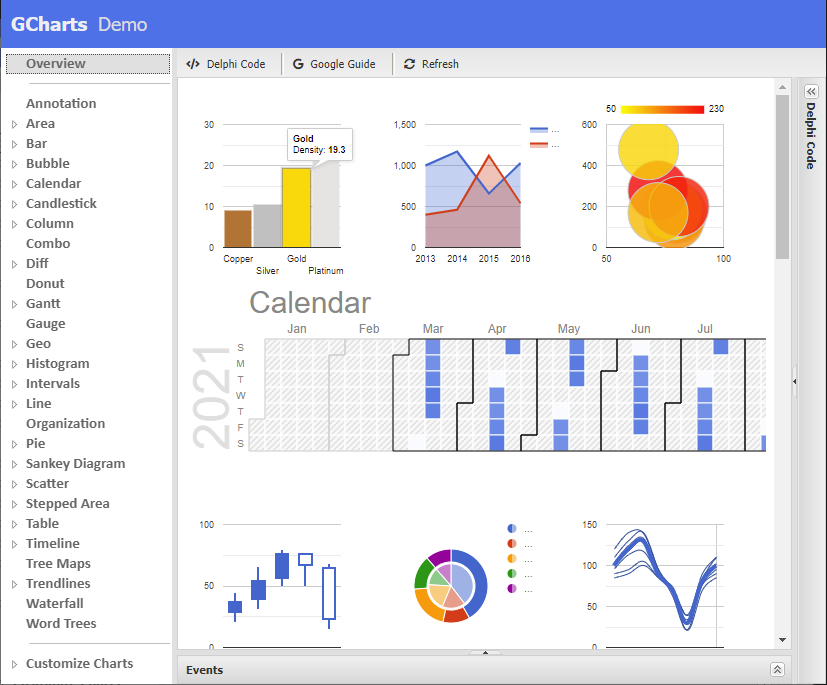
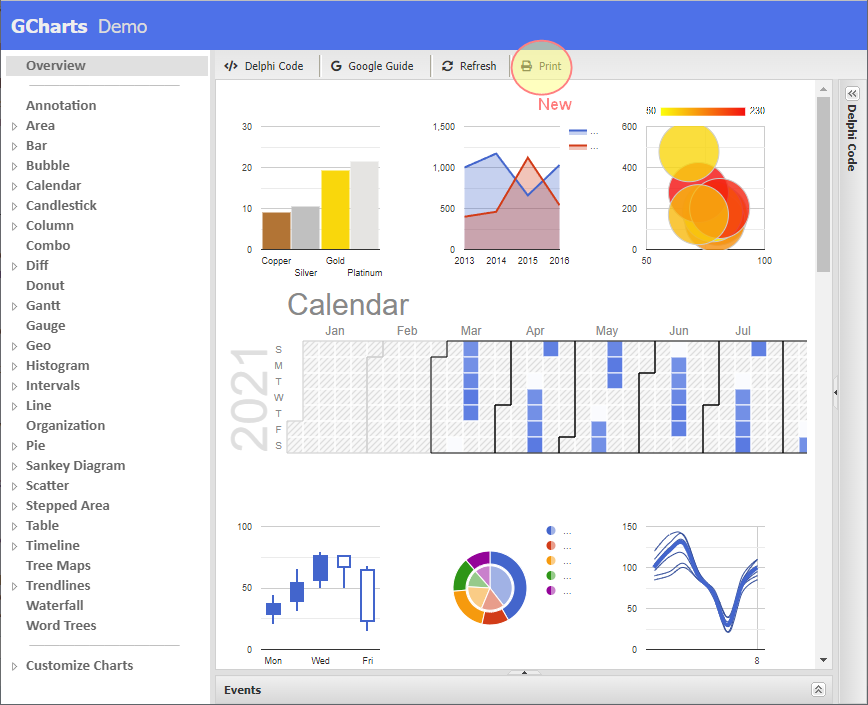
TuniGChartsFrame: New method to print chart/charts. See demos

diff --git a/README.md b/README.md
@@ -48,10 +48,9 @@ The library has two main components:
 - **TuniGChartsFrame**: this component is used to view and interact with the Chart produced by **TcfsGChartProducer**.
 
 
-
 ## Install
 
-Delphi-GCharts has been coded and tested in Delphi `10.4 Sydney` with uniGUI Version: `1.90.0 build 1549`, but surely can be compiled into earlier or newer versions.
+Delphi-GCharts has been coded and tested in Delphi `10.4 Sydney` with uniGUI Version: `1.90.0 build 1557`, but surely can be compiled into earlier or newer versions.
 
 Install the visual component **cfs.Charts.uniGUI.xxx.dpk** that is in the **package** folder and also **add** to the **library search path** the **sources** folder.
 
@@ -139,8 +138,8 @@ When running the demo you can:
 
 - Display the **Delphi Code** used to generate the Chart
 - Click **Google Guide** button to see the official documentation of Google Charts.
-- Click on the Chart  to see fired events
-
+- Click on the **Chart**  to see fired events
+- Click on **Print** button to print current frame with the chart/charts (new)
 
 
 ------
